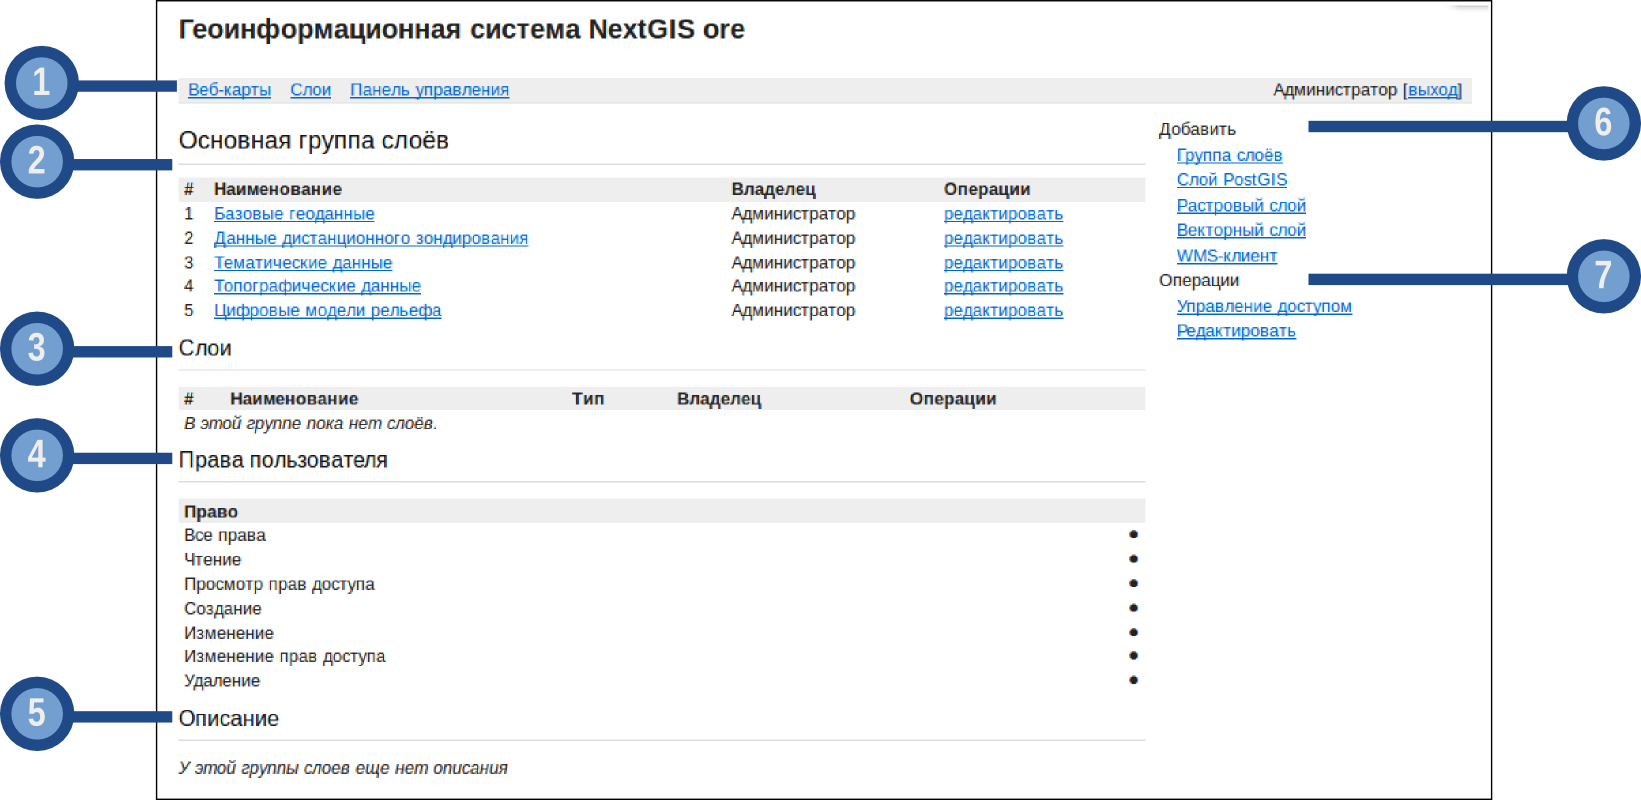
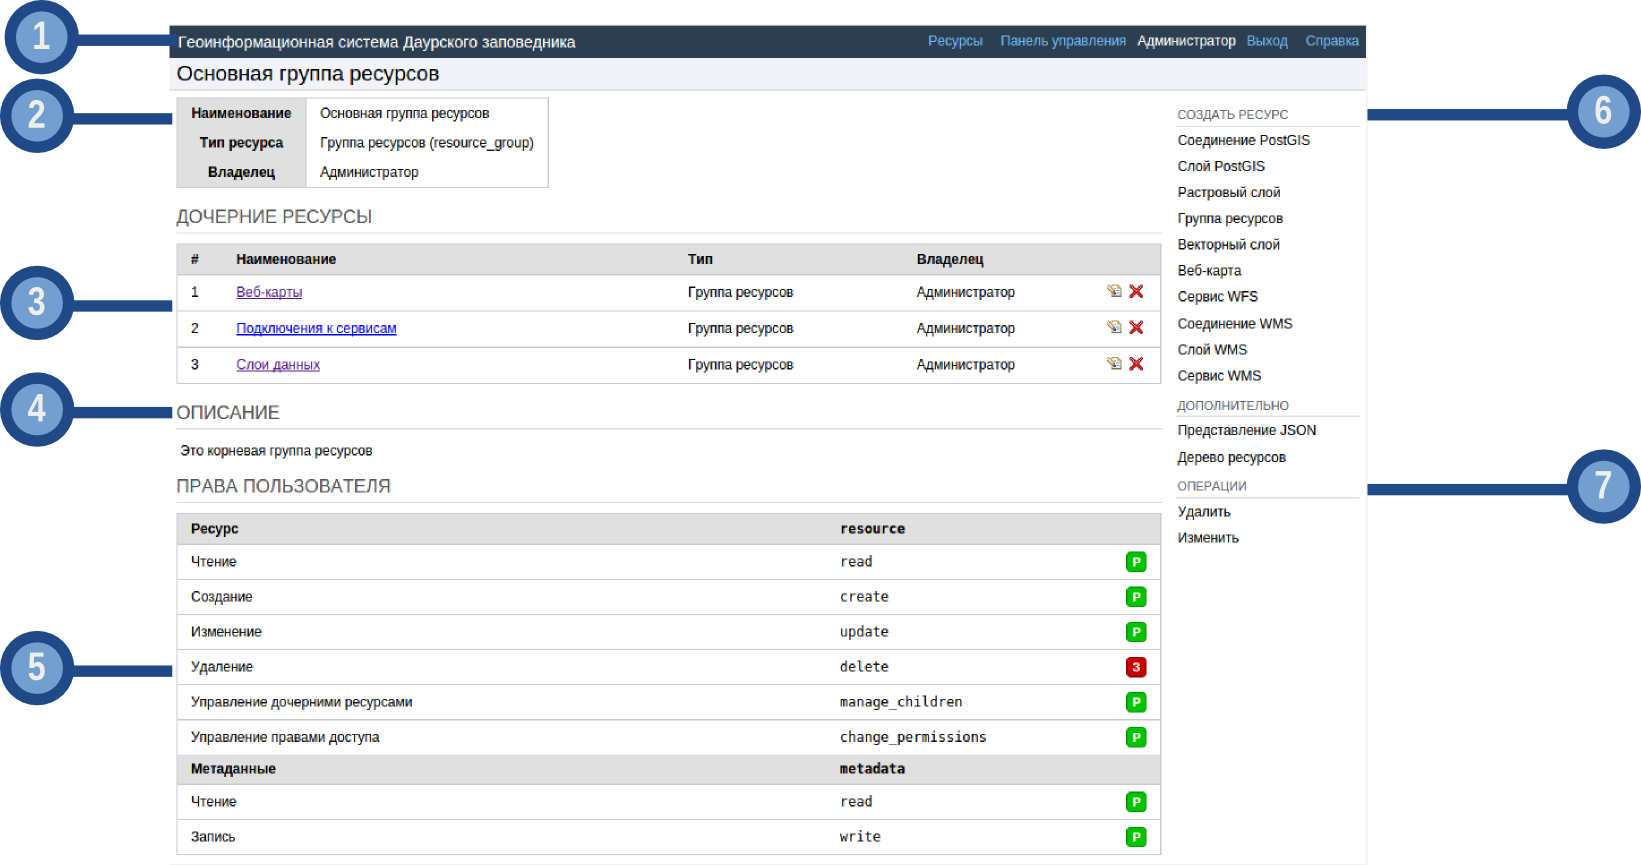
Административный интерфейс

diff --git a/source/admin_interface.rst b/source/admin_interface.rst
@@ -11,7 +11,6 @@
 
 После входа в административный интерфейс, пользователь попадает на главную страницу
 
-.. todo:: обновить картинку
 
 .. figure:: _static/admin_index.png
    :name: admin_index_pic
@@ -28,7 +27,9 @@
 
 Блок «дочерние ресурсы» (см. :numref:`admin_index_pic` п. 2) включает в себя перечень всех ресурсов, которые размещены в корневой группе. В блоке дается название ресурса, владелец ресурса, а также кнопка редактирования ресурса.
 
-Блок «Права пользователя» (см. :numref:`admin_index_pic` п. 4) включает в себя перечень прав текущего пользователя на корневую группу. Зелёная отметка идентифицирует наличие соответствующего права. Права имеют следующий состав:
+В блоке «Описание» (см. :numref:`admin_index_pic` п. 4) размещается описание корневого слоя (при наличии описания).
+
+Блок «Права пользователя» (см. :numref:`admin_index_pic` п. 5) включает в себя перечень прав текущего пользователя на корневую группу. Зелёная отметка идентифицирует наличие соответствующего права. Права имеют следующий состав:
 
 * Все права
 * Чтение
@@ -38,7 +39,7 @@
 * Изменение прав доступа
 * Удаление
 
-В блоке «Описание» (см. :numref:`admin_index_pic` п. 5) размещается описание корневого слоя (при наличии описания).
+
 В блоке операций (см. :numref:`admin_index_pic`. 6 и 7) имеются инструменты для добавления данных и выполнения операций над корневой группой.
 
 В текущей версии возможно добавить следующие виды данных:
